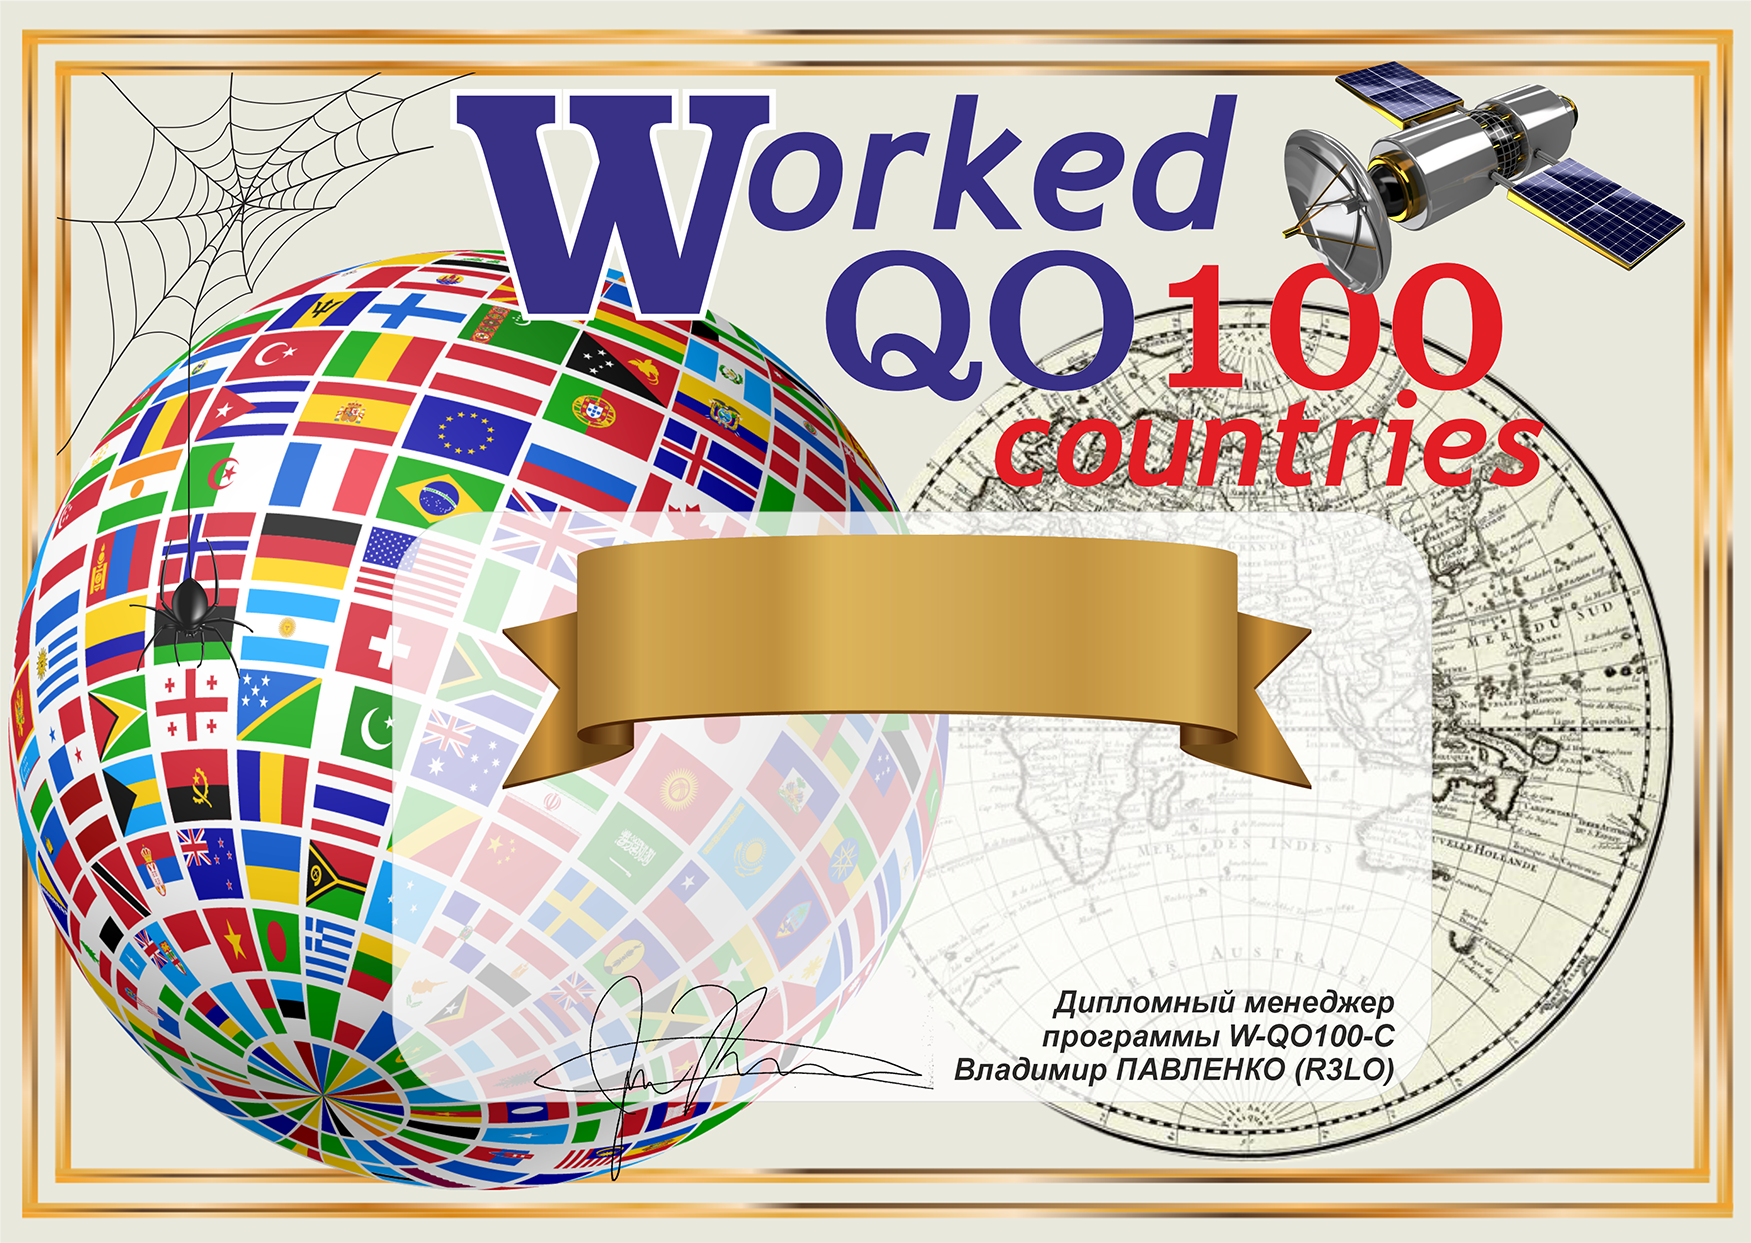
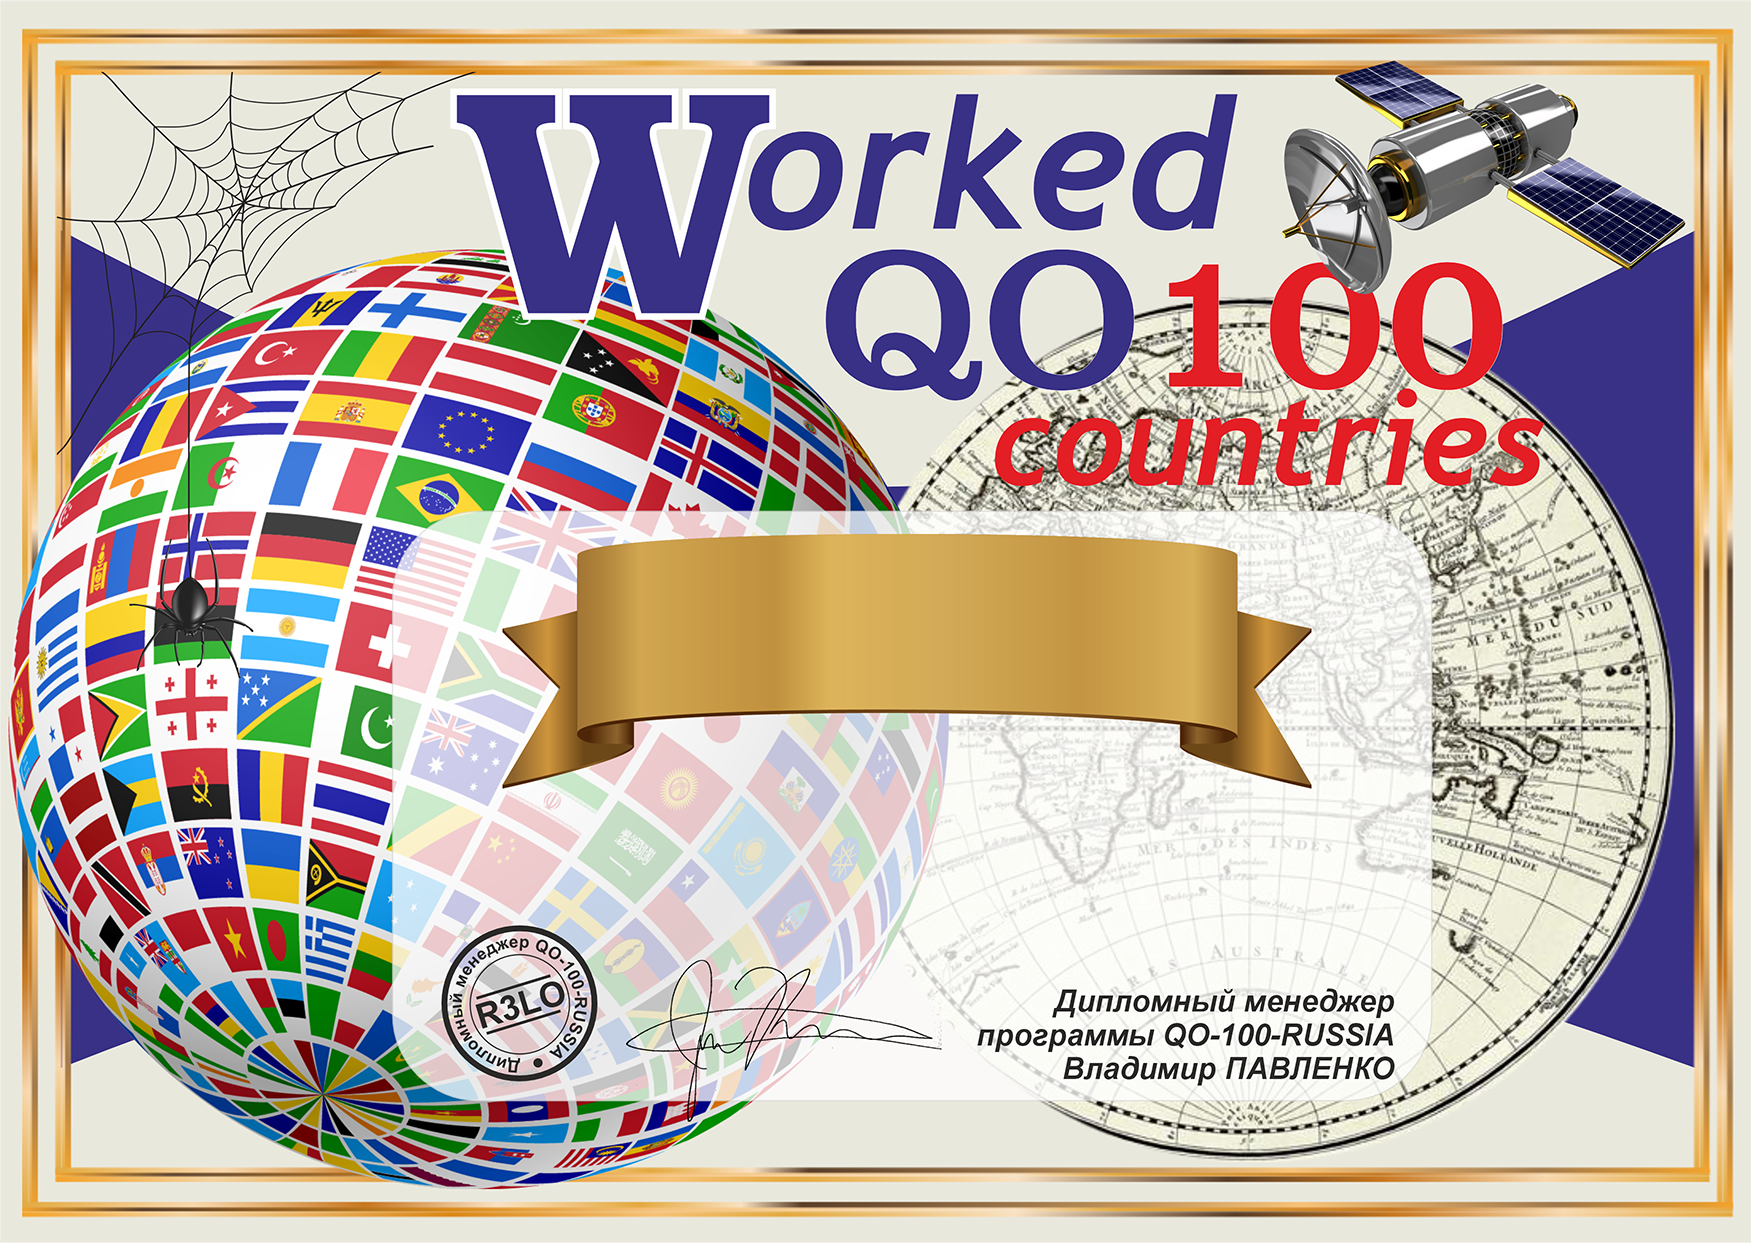
w100l

diff --git a/handlers/CallBacksMenu.py b/handlers/CallBacksMenu.py
@@ -14,7 +14,7 @@ from state.conv_adif import Conv_AdifState
 from keyboards.inline_menu_kb import interlinemenu
 from utils.database import Database
 from keyboards.inline_menu_kb import interlinemenu
-from handlers.create_pdf import create_w100c_pdf
+from handlers.create_pdf import create_w100c_pdf, create_w100l_pdf
 import os
 import re
 
@@ -67,9 +67,52 @@ async def CallBaksMenu(callback: CallbackQuery, state: FSMContext, bot: Bot):
         if (callback.data == 'dip_qo-100-russia'):
             await bot.send_message(callback.from_user.id,
                                    f'⚠ Выдача дипломов в стадии тестирования. QRX...')
+
+# -----------------------------------------------------------------------------------------------------------------------------------------
+
         if (callback.data == 'dip_qo-100-locators'):
-            await bot.send_message(callback.from_user.id,
-                                   f'⚠ Выдача дипломов в стадии тестирования. QRX...')
+            await callback.message.delete()
+            last_number = db.get_last_number_diplomas('w100l')[1]
+            user = db.select_user_id(callback.from_user.id)[1]
+            q_locators = len(db.get_stat_loc(user))
+            if q_locators < 500:
+                await bot.send_message(callback.from_user.id,
+                                f'⚠ Диплом <b>W-QO100-L</b> пока не выполнен.\n'
+                                f'❗Для получения диплома необходимо полученить QSL LoTW как минимум за работу с 500 QTH локаторами через 🛰 QO-100.\n'
+                                f'💡 <i>Возможно вы не загрузили файл отчета из LoTW. \nПерейдите в Загрузку лога, нажмите на кнопку Синхронизировать лог с LoTW, отправьте файл отчета полученный с LoTW</i>\n')
+            else:
+                last_number += 1
+                res =db.check_call_diplomas(user, 'w100l')
+                kb = InlineKeyboardBuilder()
+                kb.button(text=f'✅ Скачать PDF', callback_data='get_pdf_w100l')
+                kb.button(text='✗ Отмена', callback_data='clbk_cancel')
+                kb.adjust(1)
+
+                if res: # есть в базе
+
+                    await bot.send_message(callback.from_user.id,
+                                    f'🏆 Вам выписан диплом <b>W-QO100-L</b> #{res[0]}.\n'
+                                    '💡 <i>Диплом можно скачать в фломате PDF</i>', reply_markup=kb.as_markup())
+                else: # нет в базе
+                    db.add_call_diplomas(user, 'w100l', last_number)
+                    await bot.send_message(callback.from_user.id,
+                                    f'🏆 Поздравляем, диплом <b>W-QO100-L</b> #{last_number} выполнен.\n'
+                                    '💡 <i>Диплом можно скачать в фломате PDF</i>', reply_markup=kb.as_markup())
+
+        if (callback.data == 'get_pdf_w100l'):
+            user = db.select_user_id(callback.from_user.id)
+            res =db.check_call_diplomas(user[1], 'w100l')
+            # print('user', user)
+            # print('res', res)
+            locators = len(db.get_stat_loc(user[1]))
+            # print('locs', locators)
+            create_w100l_pdf(user[1], user[2], res, locators)
+            await bot.send_message(callback.from_user.id, text=
+                            f'💾 PDF скоро будет готов. QRX... \n\n')
+            pdf = user[1] + '_w500l.pdf'
+            document = FSInputFile(pdf)
+            await bot.send_document(callback.from_user.id, document)
+
 
 # -----------------------------------------------------------------------------------------------------------------------------------------
 
@@ -113,8 +156,6 @@ async def CallBaksMenu(callback: CallbackQuery, state: FSMContext, bot: Bot):
             pdf = user[1] + '_w100c.pdf'
             document = FSInputFile(pdf)
             await bot.send_document(callback.from_user.id, document)
-            # await bot.send_message(callback.from_user.id,
-            #                         f'{user[1]} {user[2]} {res[0]}')
 
 # -----------------------------------------------------------------------------------------------------------------------------------------
 

diff --git a/handlers/create_pdf.py b/handlers/create_pdf.py
@@ -61,3 +61,52 @@ def create_w100c_pdf(user, name, number, states):
 
 
     pdf_file.save()
+
+# -----------------------------------------------------------------------------------------------------------------------------------------
+
+def create_w100l_pdf(user, name, number, locators):
+    file = 'fonts/LorenzoSans.ttf'
+    img = "fonts/w500lt.png"
+    file_path = os.path.join(os.path.dirname(os.path.abspath(__file__)), file)
+    img_path = os.path.join(os.path.dirname(os.path.abspath(__file__)), img)
+
+    # Создаем новый PDF-файл
+    pdf = user + '_w500l.pdf'
+    pdf_file = canvas.Canvas(pdf, pagesize=landscape(A4))
+    width, height = A4
+
+    # Добавляем иоюражение
+    pdf_file.drawImage(img_path, 0, 0, width=height, height=width)
+
+    # Добавляем позывной
+    pdfmetrics.registerFont(TTFont('LorenzoSans', file_path))
+    pdf_file.setFillColorRGB(1, 1, 1)  # цвет
+    # pdf_file.setFillColorRGB(0, 0, 1)  # Синий цвет
+    pdf_file.setFont("LorenzoSans", 54)
+    pdf_file.drawCentredString(width - 240, height - 555, user.upper())  # Заголовок
+
+    # номер диплома
+    pdfmetrics.registerFont(TTFont('LorenzoSans', file_path))
+    pdf_file.setFillColorRGB(0, 0, 0.5)  # Синий цвет
+    # pdf_file.setFillColorRGB(0, 0, 1)  # Синий цвет
+    pdf_file.setFont("LorenzoSans", 10)
+    pdf_file.drawCentredString(width - 100, 62, f'#{str(number[0])} от {time.strftime("%d-%m-%Y")}')  # Заголовок
+
+
+    # текст награды
+    from textwrap import wrap
+    text = f'''Награждается {name} за проведение радиосвязей с любительскими радиостанциями из {locators} различных QTH локаторов через спутник QO-100'''
+    pdfmetrics.registerFont(TTFont('LorenzoSans', file_path))
+    pdf_file.setFillColorRGB(0, 0, 0.5)  # Синий цвет
+    # pdf_file.setFillColorRGB(0, 0, 1)  # Синий цвет
+    pdf_file.setFont("LorenzoSans", 18)
+    for i, s in enumerate(wrap(text, 40)):
+        # y_step  = 25 * i межстрочный интервал
+        y_step  = 19 * i
+        # y_start = 200 - y_step по высоте
+        y_start = 210 - y_step
+        # pdf_file.drawCentredString(440, y_start, s) по горизонтали
+        pdf_file.drawCentredString(490, y_start, s)
+
+
+    pdf_file.save()

diff --git a/utils/database.py b/utils/database.py
@@ -16,7 +16,11 @@ class Database():
 
                      'CREATE TABLE IF NOT EXISTS w100c('
                      'call TEXT UNIQUE PRIMARY KEY,'
-                     'number INTEGER NOT NULL DEFAULT 0)')
+                     'number INTEGER NOT NULL DEFAULT 0);'
+
+                     'CREATE TABLE IF NOT EXISTS w100l('
+                     'call TEXT UNIQUE PRIMARY KEY,'
+                     'number INTEGER NOT NULL DEFAULT 0);')
 
             self.cursor.executescript(query)
             self.connection.commit()
@@ -52,7 +56,7 @@ class Database():
             return last_number
 
     def add_call_diplomas(self, user, table, number):
-        self.cursor.execute(f'INSERT OR REPLACE INTO w100c (call, number) VALUES (?, ?)', (user, number))
+        self.cursor.execute(f'INSERT OR REPLACE INTO {table} (call, number) VALUES (?, ?)', (user, number))
         self.connection.commit()
 
 
